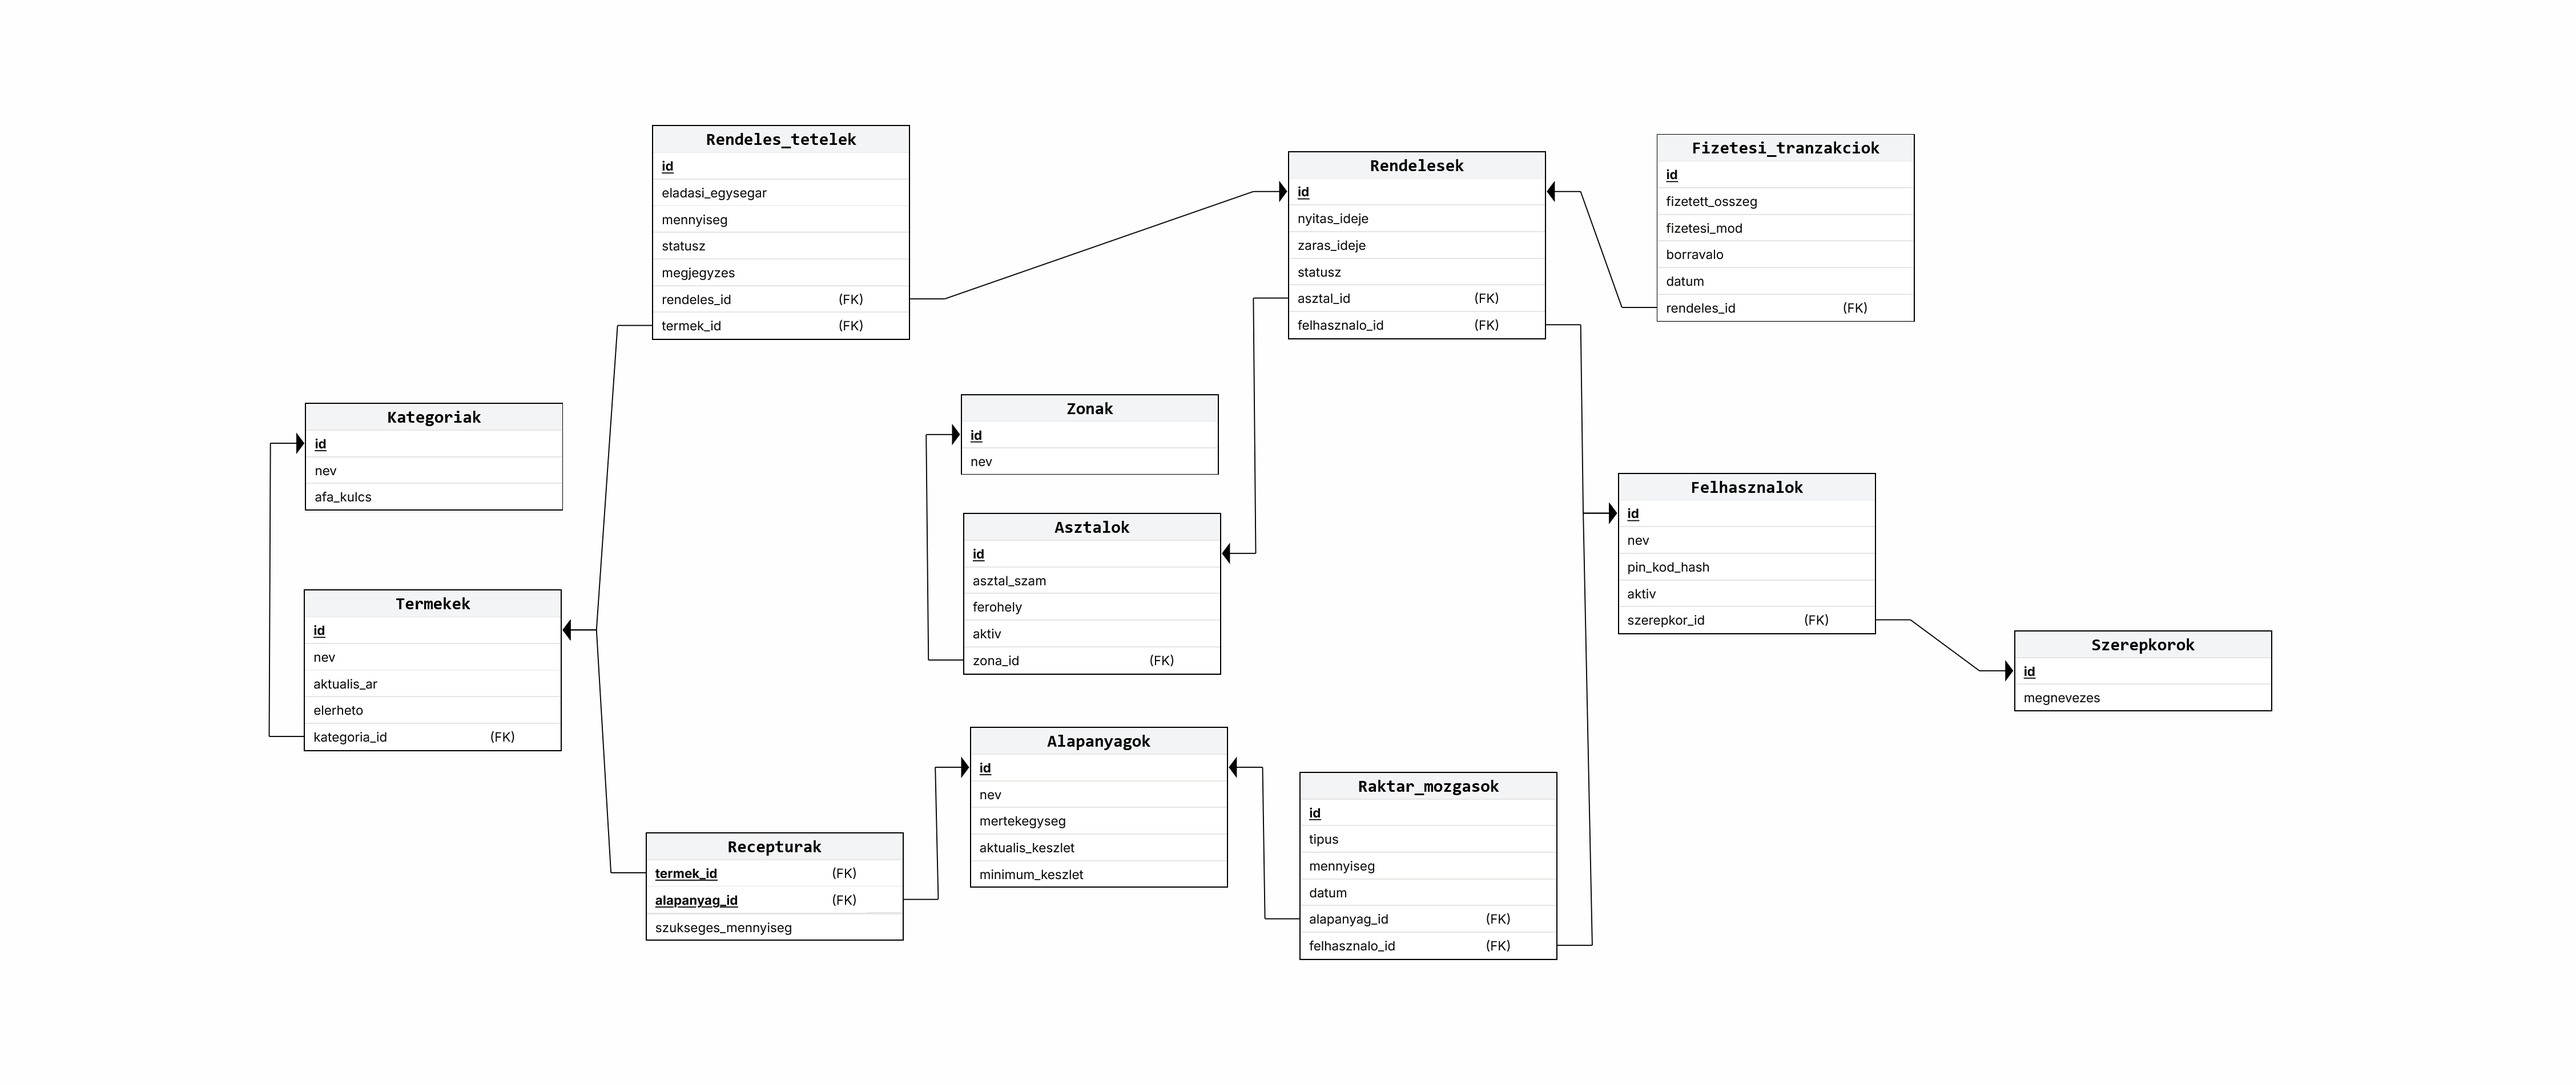
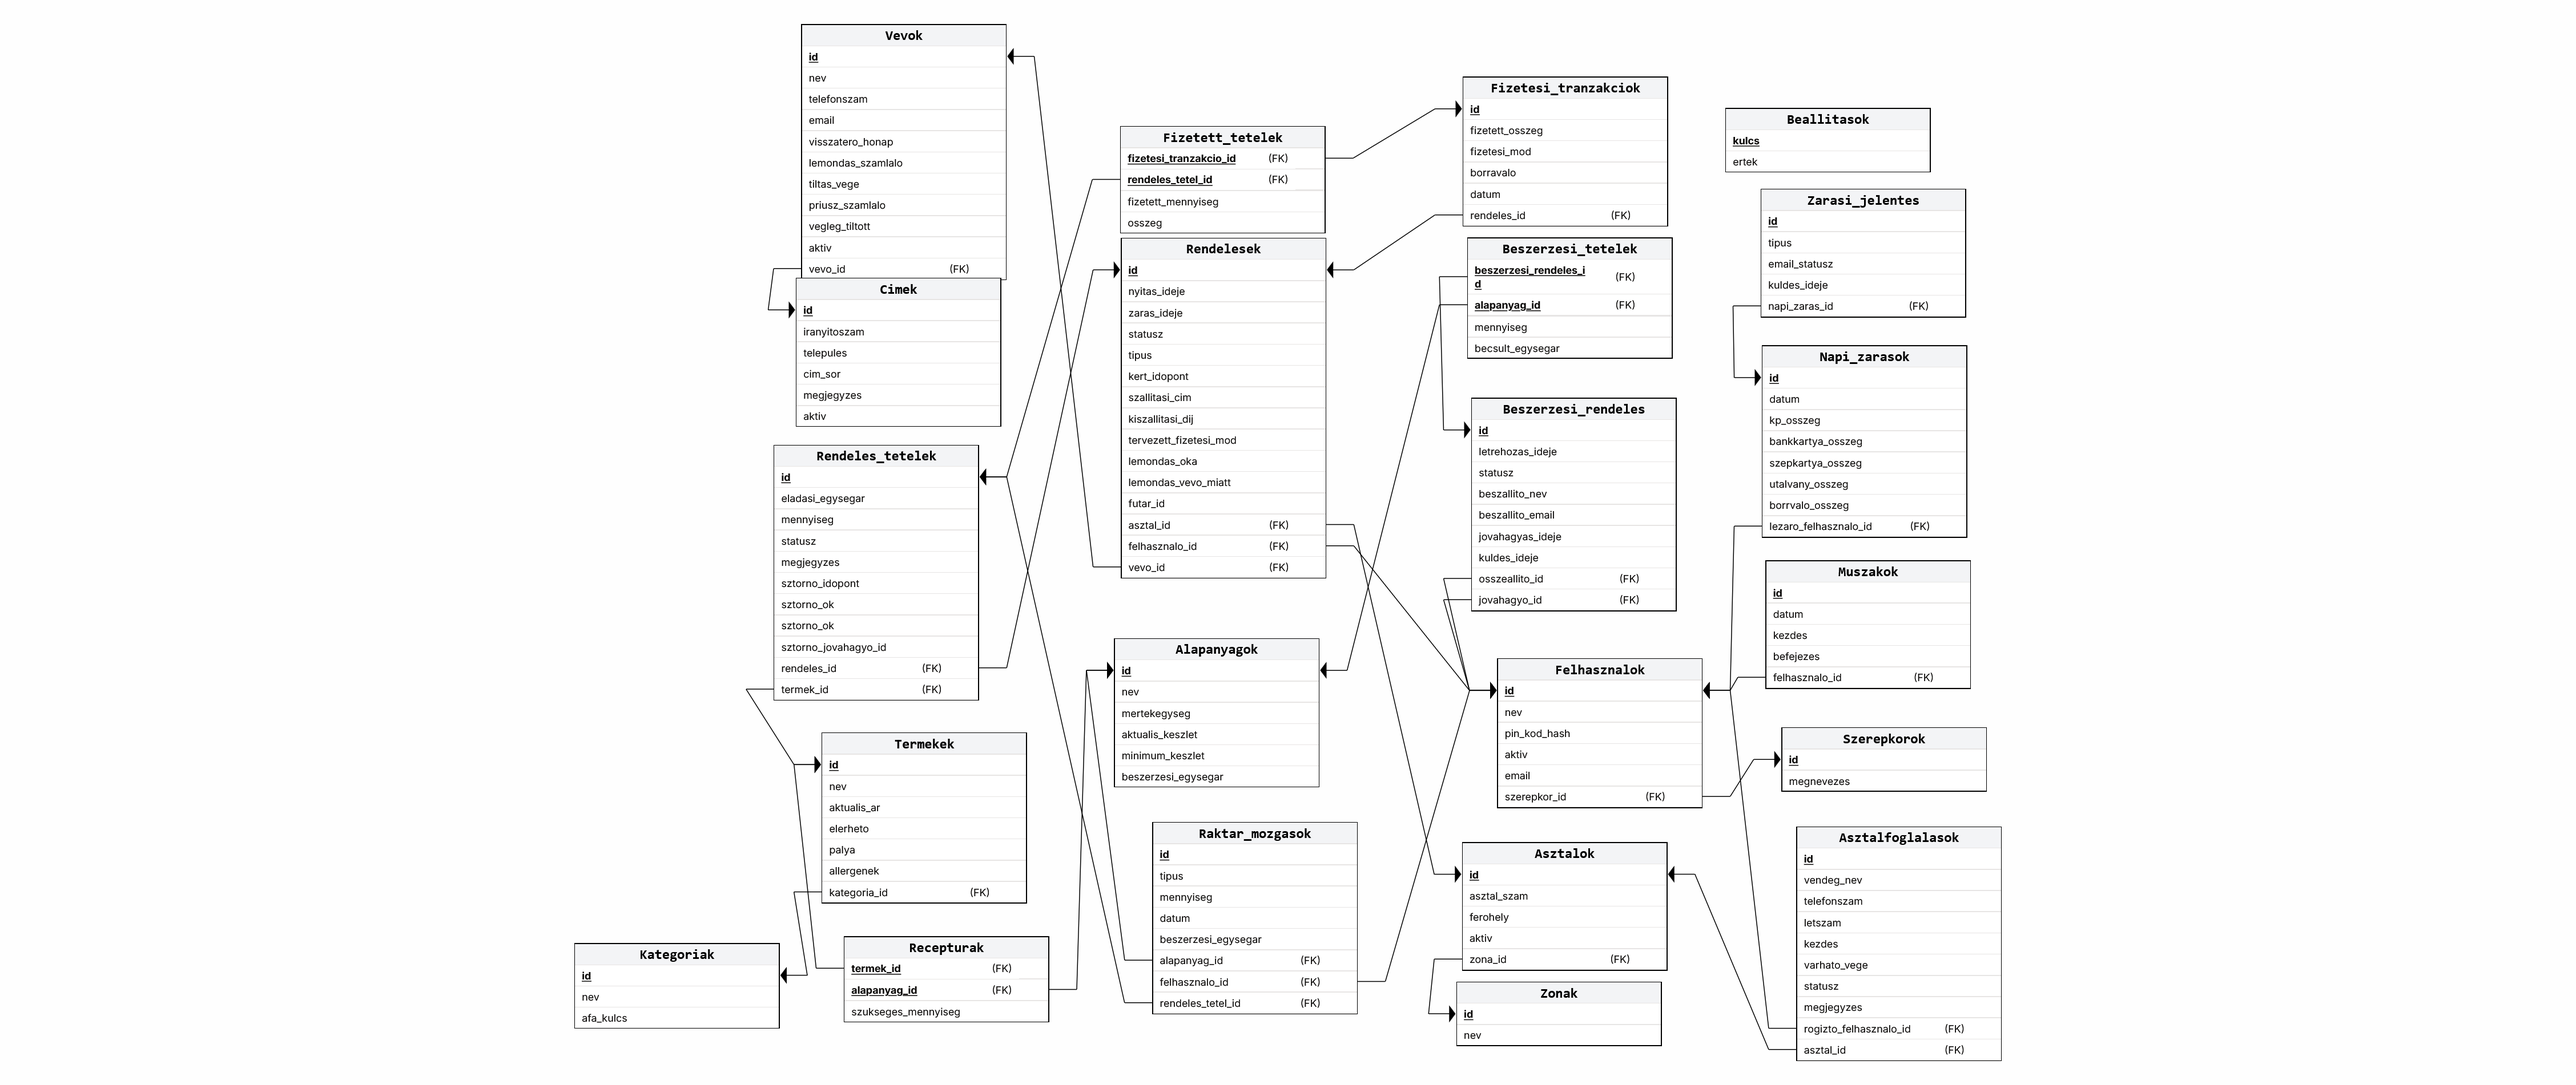
Diagrammok bovitese

diff --git a/Dokumentumok/H3.html b/Dokumentumok/H3.html
@@ -49,7 +49,7 @@
                     (éttermek, bisztrók) szánjuk. Egy péntek esti csúcsidőszakban a másodpercek is számítanak, így a gyorsaság és
                     a megbízhatóság nem köthet kompromisszumot. A szoftver az étterem saját, belső helyi hálózatán (LAN)
                     működik egy központi gépen futó szerverrel. Ez garantálja, hogy egy esetleges internetkimaradás ami egy nyári
-                    vihar közben gyakran előfordul – nem bénítja meg a kiszolgálást, a gépek továbbra is azonnal kommunikálnak
+                    vihar közben gyakran előfordul nem bénítja meg a kiszolgálást, a gépek továbbra is azonnal kommunikálnak
                     egymással.
                 </li>
                 <li>
